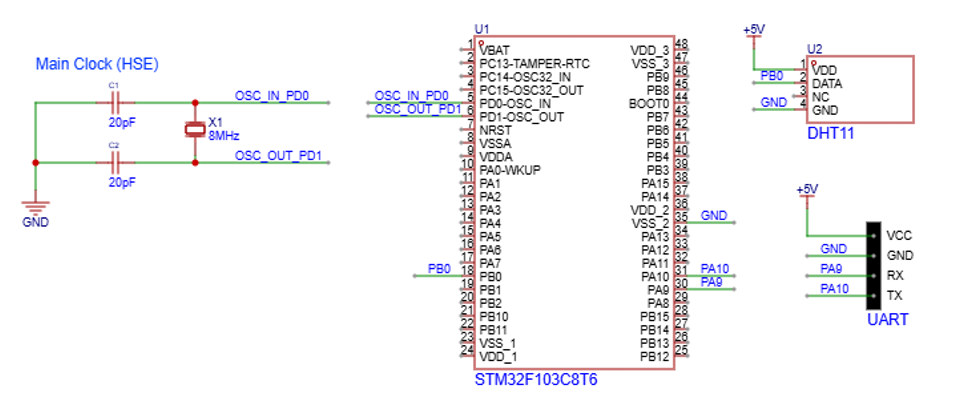
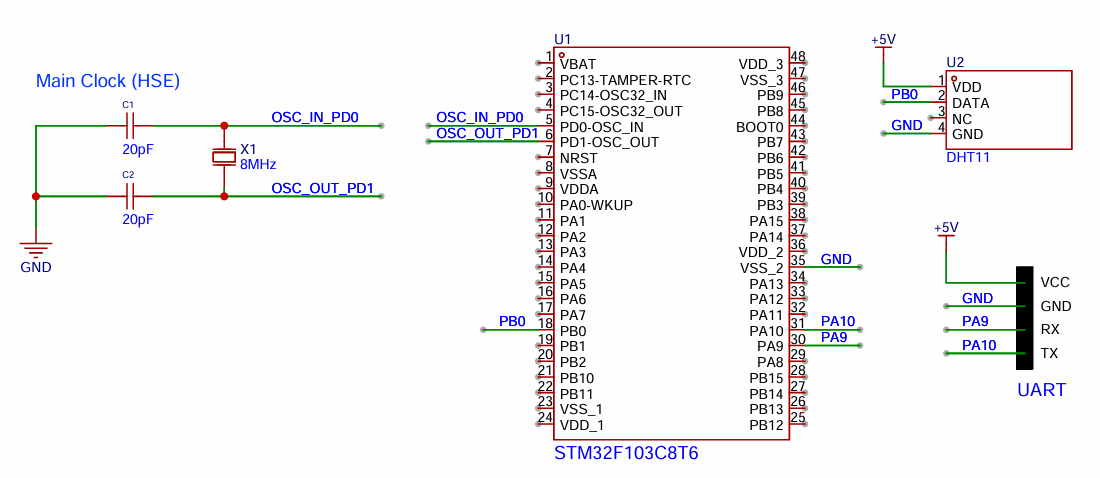
merger

Changed region(s): [[0.0, 0.0597, 0.7879, 0.9851], [0.7576, 0.0597, 1.0, 0.3582], [0.8182, 0.4478, 0.9697, 0.8358]]

diff --git a/README.md b/README.md
@@ -92,15 +92,6 @@ Instead of using sprintf() which is computational heavy and increases code size,
 
 🔗 [View Utility Functions Source Code](https://github.com/rubin-khadka/STM32_DHT11_UART_BareMetal/blob/main/Src/utils.c)
 
-## Project Schematic Diagram
-<img width="1223" height="656" alt="STM32_Digital_Thermometer_Schematic_complete" src="https://github.com/rubin-khadka/STM32_DHT11_UART_BareMetal/blob/main/Assets/simple_project_schematic.png" />
-*Schematic designed using EasyEDA*
-
-The schematic shows the complete STM32F103C8T6 implementation including:
-- Core Blue Pill circuits: Power supply, 8MHz and RTC clock, reset circuit, decoupling and BOOT circuit
-- Display driver: Two daisy-chained 74HC595 shift registers controlling the 4-digit 7-segment display
-- Temperature sensing: LM35 sensor with voltage divider for negative temperature measurement
-
 ## Project Schematic
 
 <img width="957" height="402" alt="STM32_DHT11_UART_Schematic" src="https://github.com/user-attachments/assets/105ccc9c-9f7d-4265-8d81-81eb34340cc1" />
